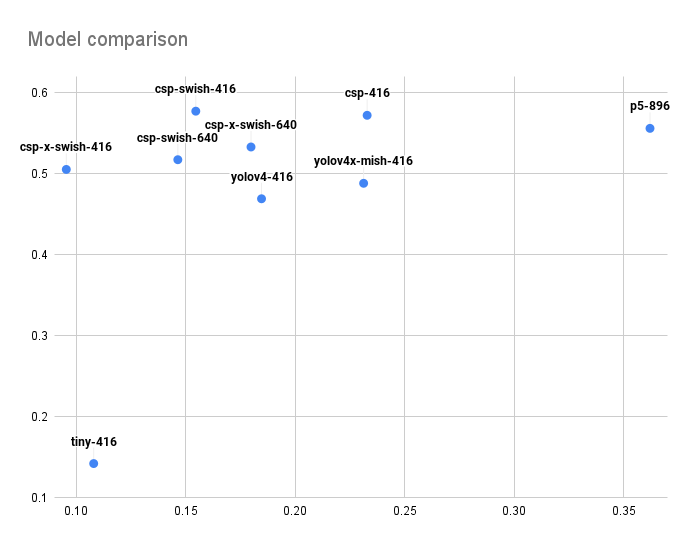
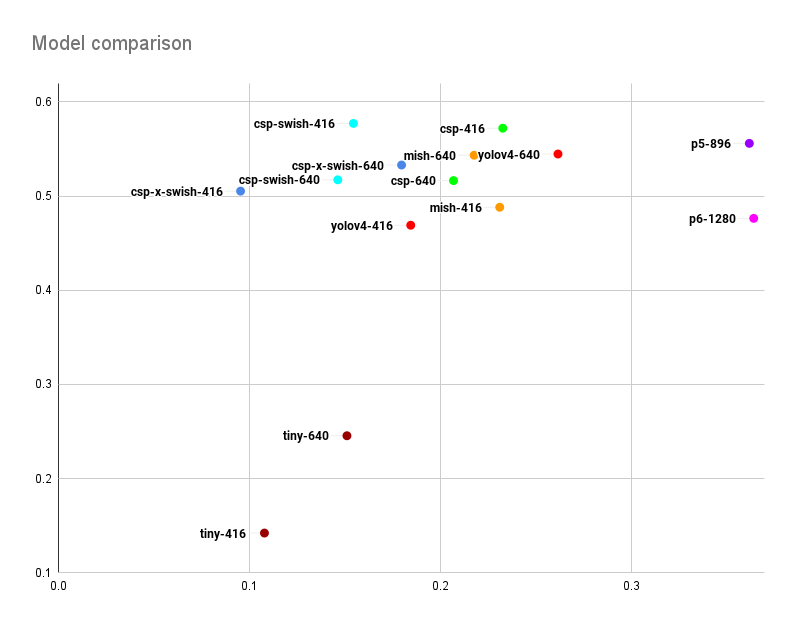
added new data and updated comparison charts

diff --git a/README.md b/README.md
@@ -56,7 +56,7 @@ All the values range between 0 - 1
 | yolov4-tiny        | 416 | 16 | 8 | Yes | 0.21 | 0.08 | 0.11 | 0.1080 | 0.1422 | [terminal](trainOutput/yolov4-tiny-pretrained-416.png) |
 | yolov4-tiny        | 640 | 16 | 8 | Yes | 0.35 | 0.09 | 0.14 | 0.1512 | 0.2455 | [terminal](trainOutput/yolov4-tiny-pretrained-640.png) |
 | yolov4             | 416 | 16 | 8 | Yes | 0.62 | 0.33 | 0.43 | 0.1846 | 0.4690 | [terminal](trainOutput/yolov4-pretrained-416.png) |
-| yolov4             | 640 | 16 | 8 | Yes | 0.62 | 0.33 | 0.43 | 0.1846 | 0.4690 | [terminal](trainOutput/yolov4-pretrained-640.png) |
+| yolov4             | 640 | 16 | 8 | Yes | 0.73 | 0.44 | 0.55 | 0.2617 | 0.5446 | [terminal](trainOutput/yolov4-pretrained-640.png) |
 | yolov4x-mish       | 416 | 16 | 8 | Yes | 0.65 | 0.34 | 0.44 | 0.2312 | 0.4881 | [terminal](trainOutput/yolov4x-mish-pretrained-416.png) |
 | yolov4x-mish       | 640 | 16 | 8 | Yes | 0.72 | 0.41 | 0.53 | 0.2178 | 0.5433 | [terminal](trainOutput/yolov4x-mish-pretrained-640.png) |
 | yolov4-csp         | 416 | 16 | 8 | Yes | 0.77 | 0.36 | 0.49 | 0.2328 | 0.5720 | [terminal](trainOutput/yolov4-csp-pretrained-416.png) |
@@ -75,14 +75,19 @@ All the values range between 0 - 1
 ## Comparison of Batch size and subdivision size
 
 All the values range between 0 - 1
+Used Model is yolov4-tiny, and resolution is 416x416
 
-| Model | Reso lution | Batch | Sub divisions | Pre trained | Precision | Recall | F1 score | mAP @0.5 | Avg IoU | Output |
-| ----- | ----------- | ----- | ------------- |------------ |---------- |------- |--------- | -------- | ------- | ------ |
-| yolov4-tiny  | 416 | 16 | 8  | Yes | 0.21 | 0.08 | 0.11 | 0.1080 | 0.1422 | [terminal](trainOutput/yolov4-tiny-pretrained-16-8.png) |
-| yolov4-tiny  | 416 | 64 | 16 | Yes | 0.36 | 0.10 | 0.16 | 0.1821 | 0.2474 | [terminal](trainOutput/yolov4-tiny-pretrained-64-16.png) |
-| yolov4-tiny  | 416 | 64 | 8  | Yes | 0.34 | 0.11 | 0.16 | 0.1789 | 0.2176 | [terminal](trainOutput/yolov4-tiny-pretrained-64-8.png) |
-| yolov4-tiny  | 416 |128 | 32 | Yes | 0.30 | 0.10 | 0.15 | 0.1372 | 0.2079 | [terminal](trainOutput/yolov4-tiny-pretrained-128-32.png) |
-| yolov4-tiny  | 416 |128 | 16 | Yes | 0.36 | 0.11 | 0.17 | 0.1901 | 0.2387 | [terminal](trainOutput/yolov4-tiny-pretrained-128-16.png) |
+| Minibatch | Batch | Sub divisions | Pre trained | Precision | Recall | F1 score | mAP @0.5 | Avg IoU | Output |
+| ----- | --- | -- | --- |----- | ---- |----- |------- | ------ | --------------------------------------------- |
+|   2   |  16 | 8  | Yes | 0.21 | 0.08 | 0.11 | 0.1080 | 0.1422 | [terminal](trainOutput/yolov4-tiny-pretrained-16-8.png) |
+|   4   |  64 | 16 | Yes | 0.36 | 0.10 | 0.16 | 0.1821 | 0.2474 | [terminal](trainOutput/yolov4-tiny-pretrained-64-16.png) |
+|   8   |  64 | 8  | Yes | 0.34 | 0.11 | 0.16 | 0.1789 | 0.2176 | [terminal](trainOutput/yolov4-tiny-pretrained-64-8.png) |
+|   4   | 128 | 32 | Yes | 0.30 | 0.10 | 0.15 | 0.1372 | 0.2079 | [terminal](trainOutput/yolov4-tiny-pretrained-128-32.png) |
+|   8   | 128 | 16 | Yes | 0.36 | 0.11 | 0.17 | 0.1901 | 0.2387 | [terminal](trainOutput/yolov4-tiny-pretrained-128-16.png) |
+|   16  | 128 | 8  | Yes | 0.29 | 0.09 | 0.14 | 0.1900 | 0.2015 | [terminal](trainOutput/yolov4-tiny-pretrained-128-8.png) |
+|   4   | 256 | 64 | Yes | 0.35 | 0.12 | 0.18 | 0.1256 | 0.2395 | [terminal](trainOutput/yolov4-tiny-pretrained-256-64.png) |
+|   8   | 256 | 32 | Yes | 0.30 | 0.11 | 0.16 | 0.1725 | 0.2068 | [terminal](trainOutput/yolov4-tiny-pretrained-256-32.png) |
+|   16  | 256 | 16 | Yes | 0.35 | 0.12 | 0.18 | 0.1256 | 0.2395 | [terminal](trainOutput/yolov4-tiny-pretrained-256-16.png) |
 
 
 ![Image](trainOutput/batch_subdivision-comparison.png)
